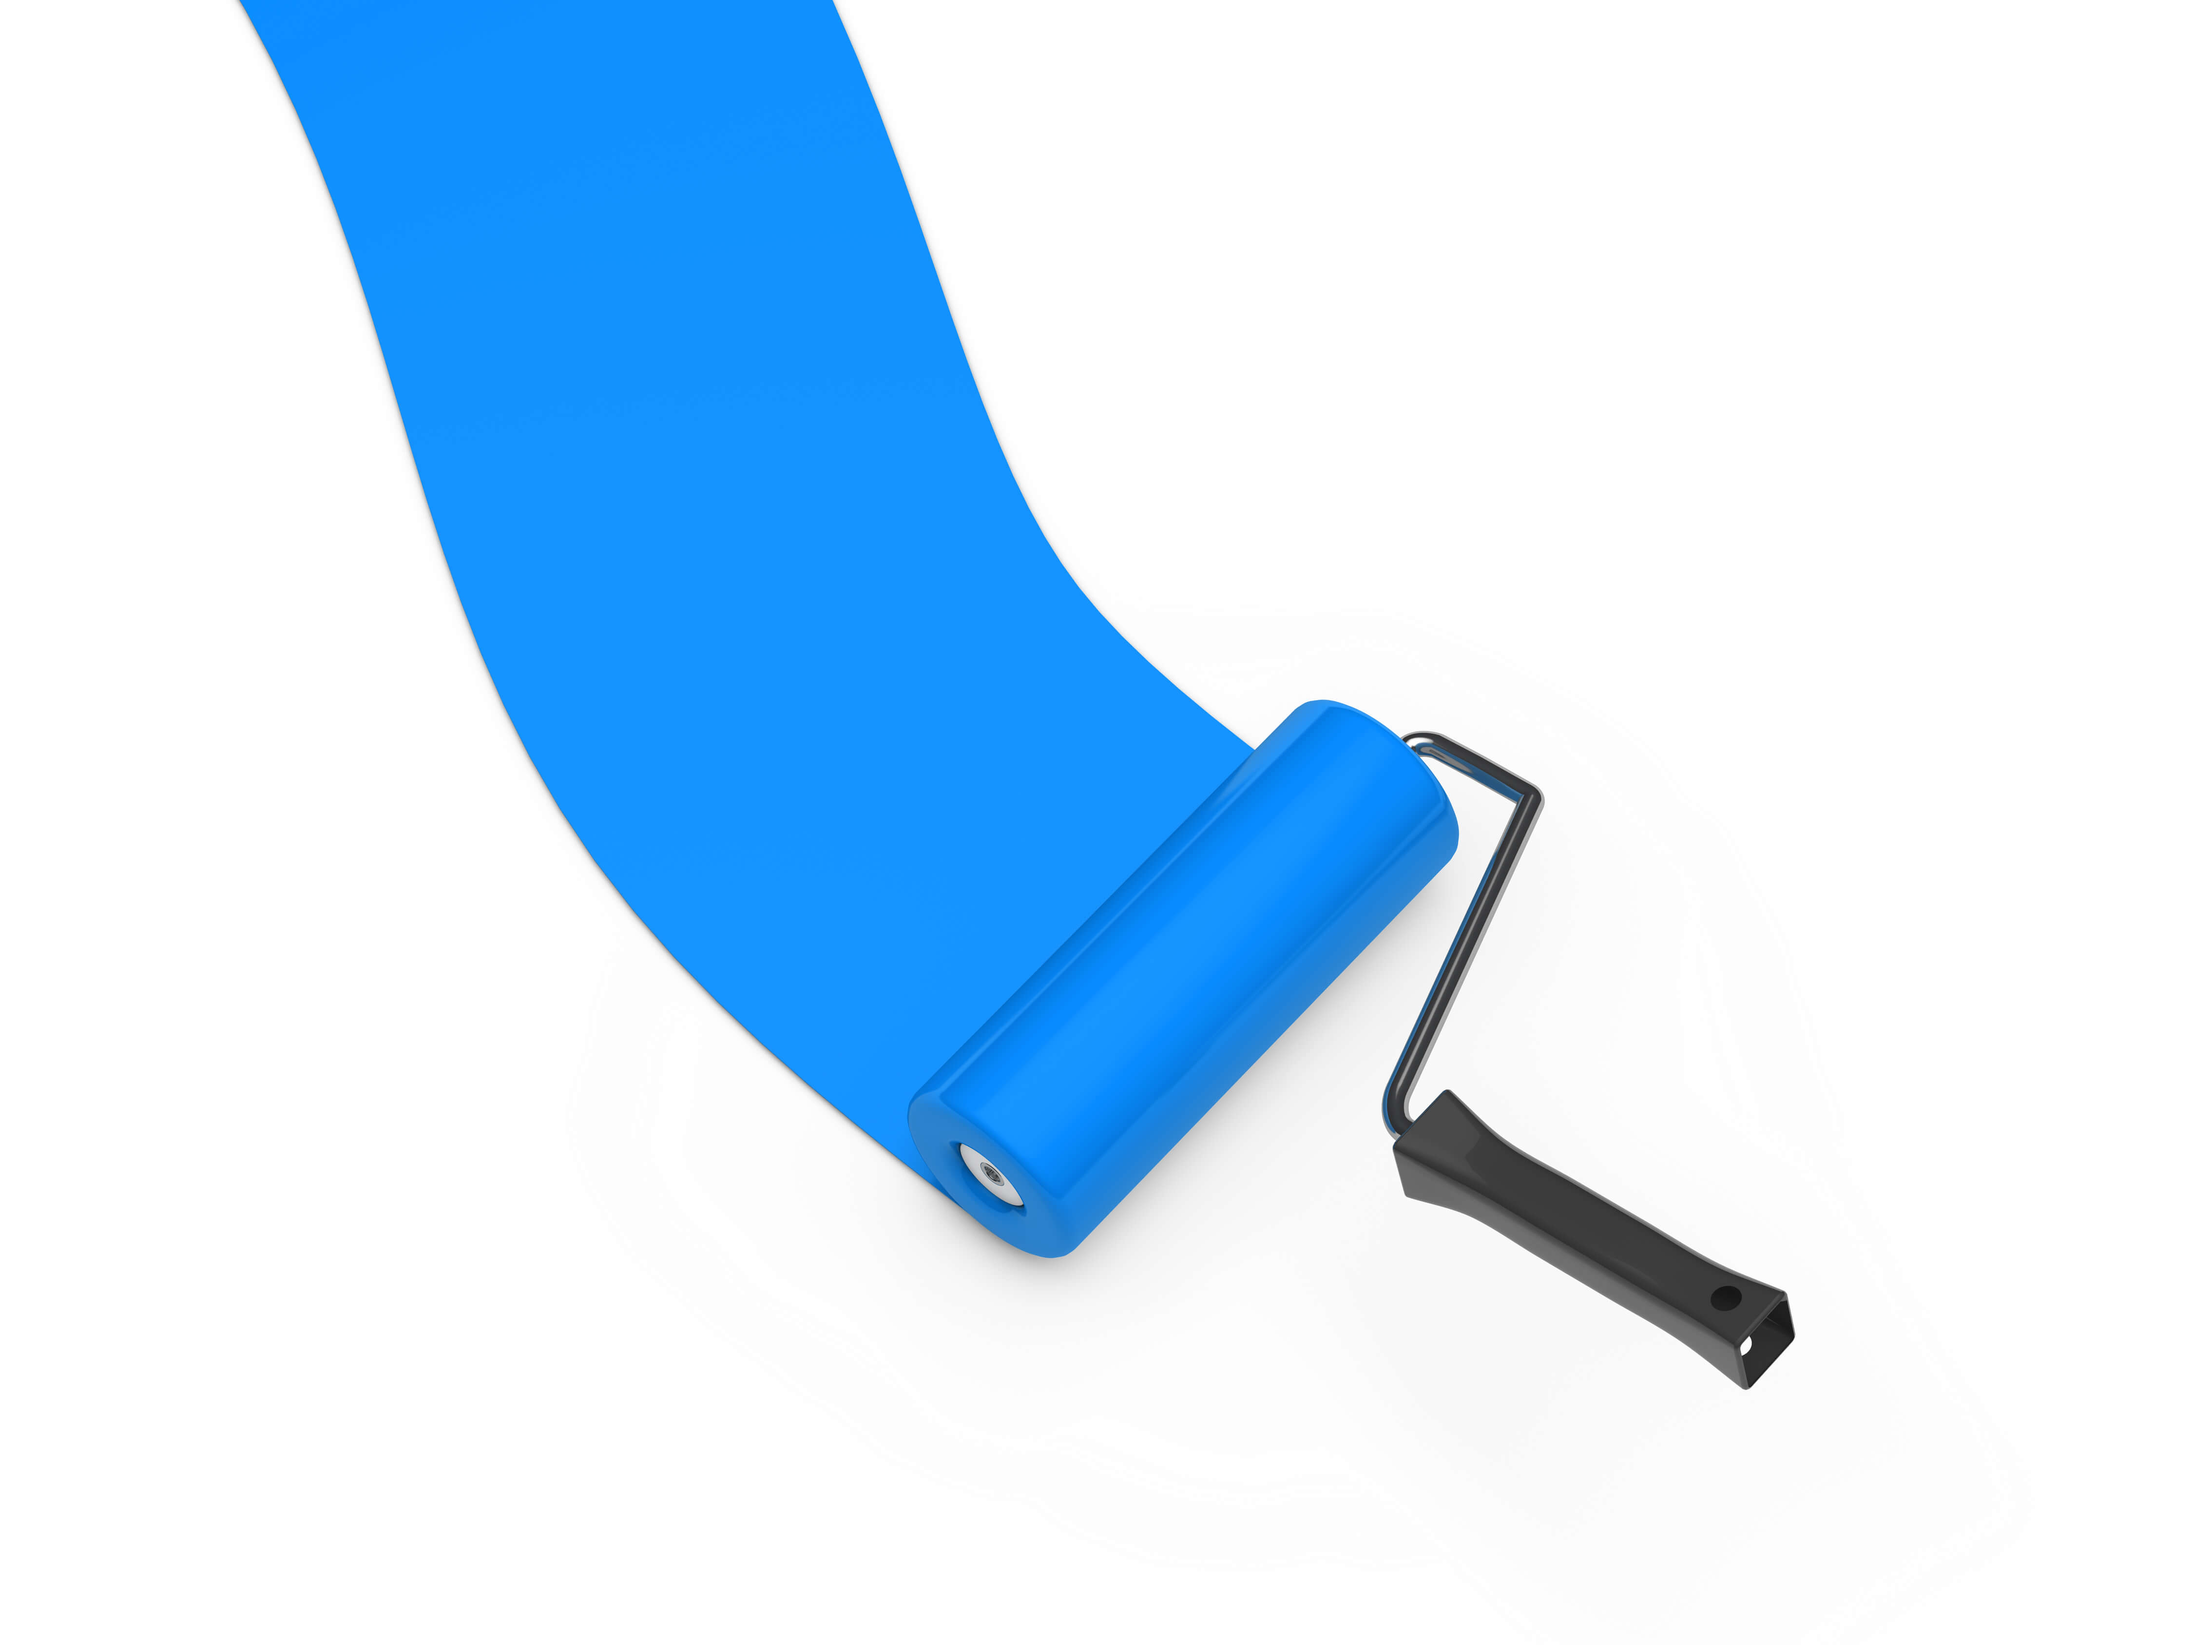
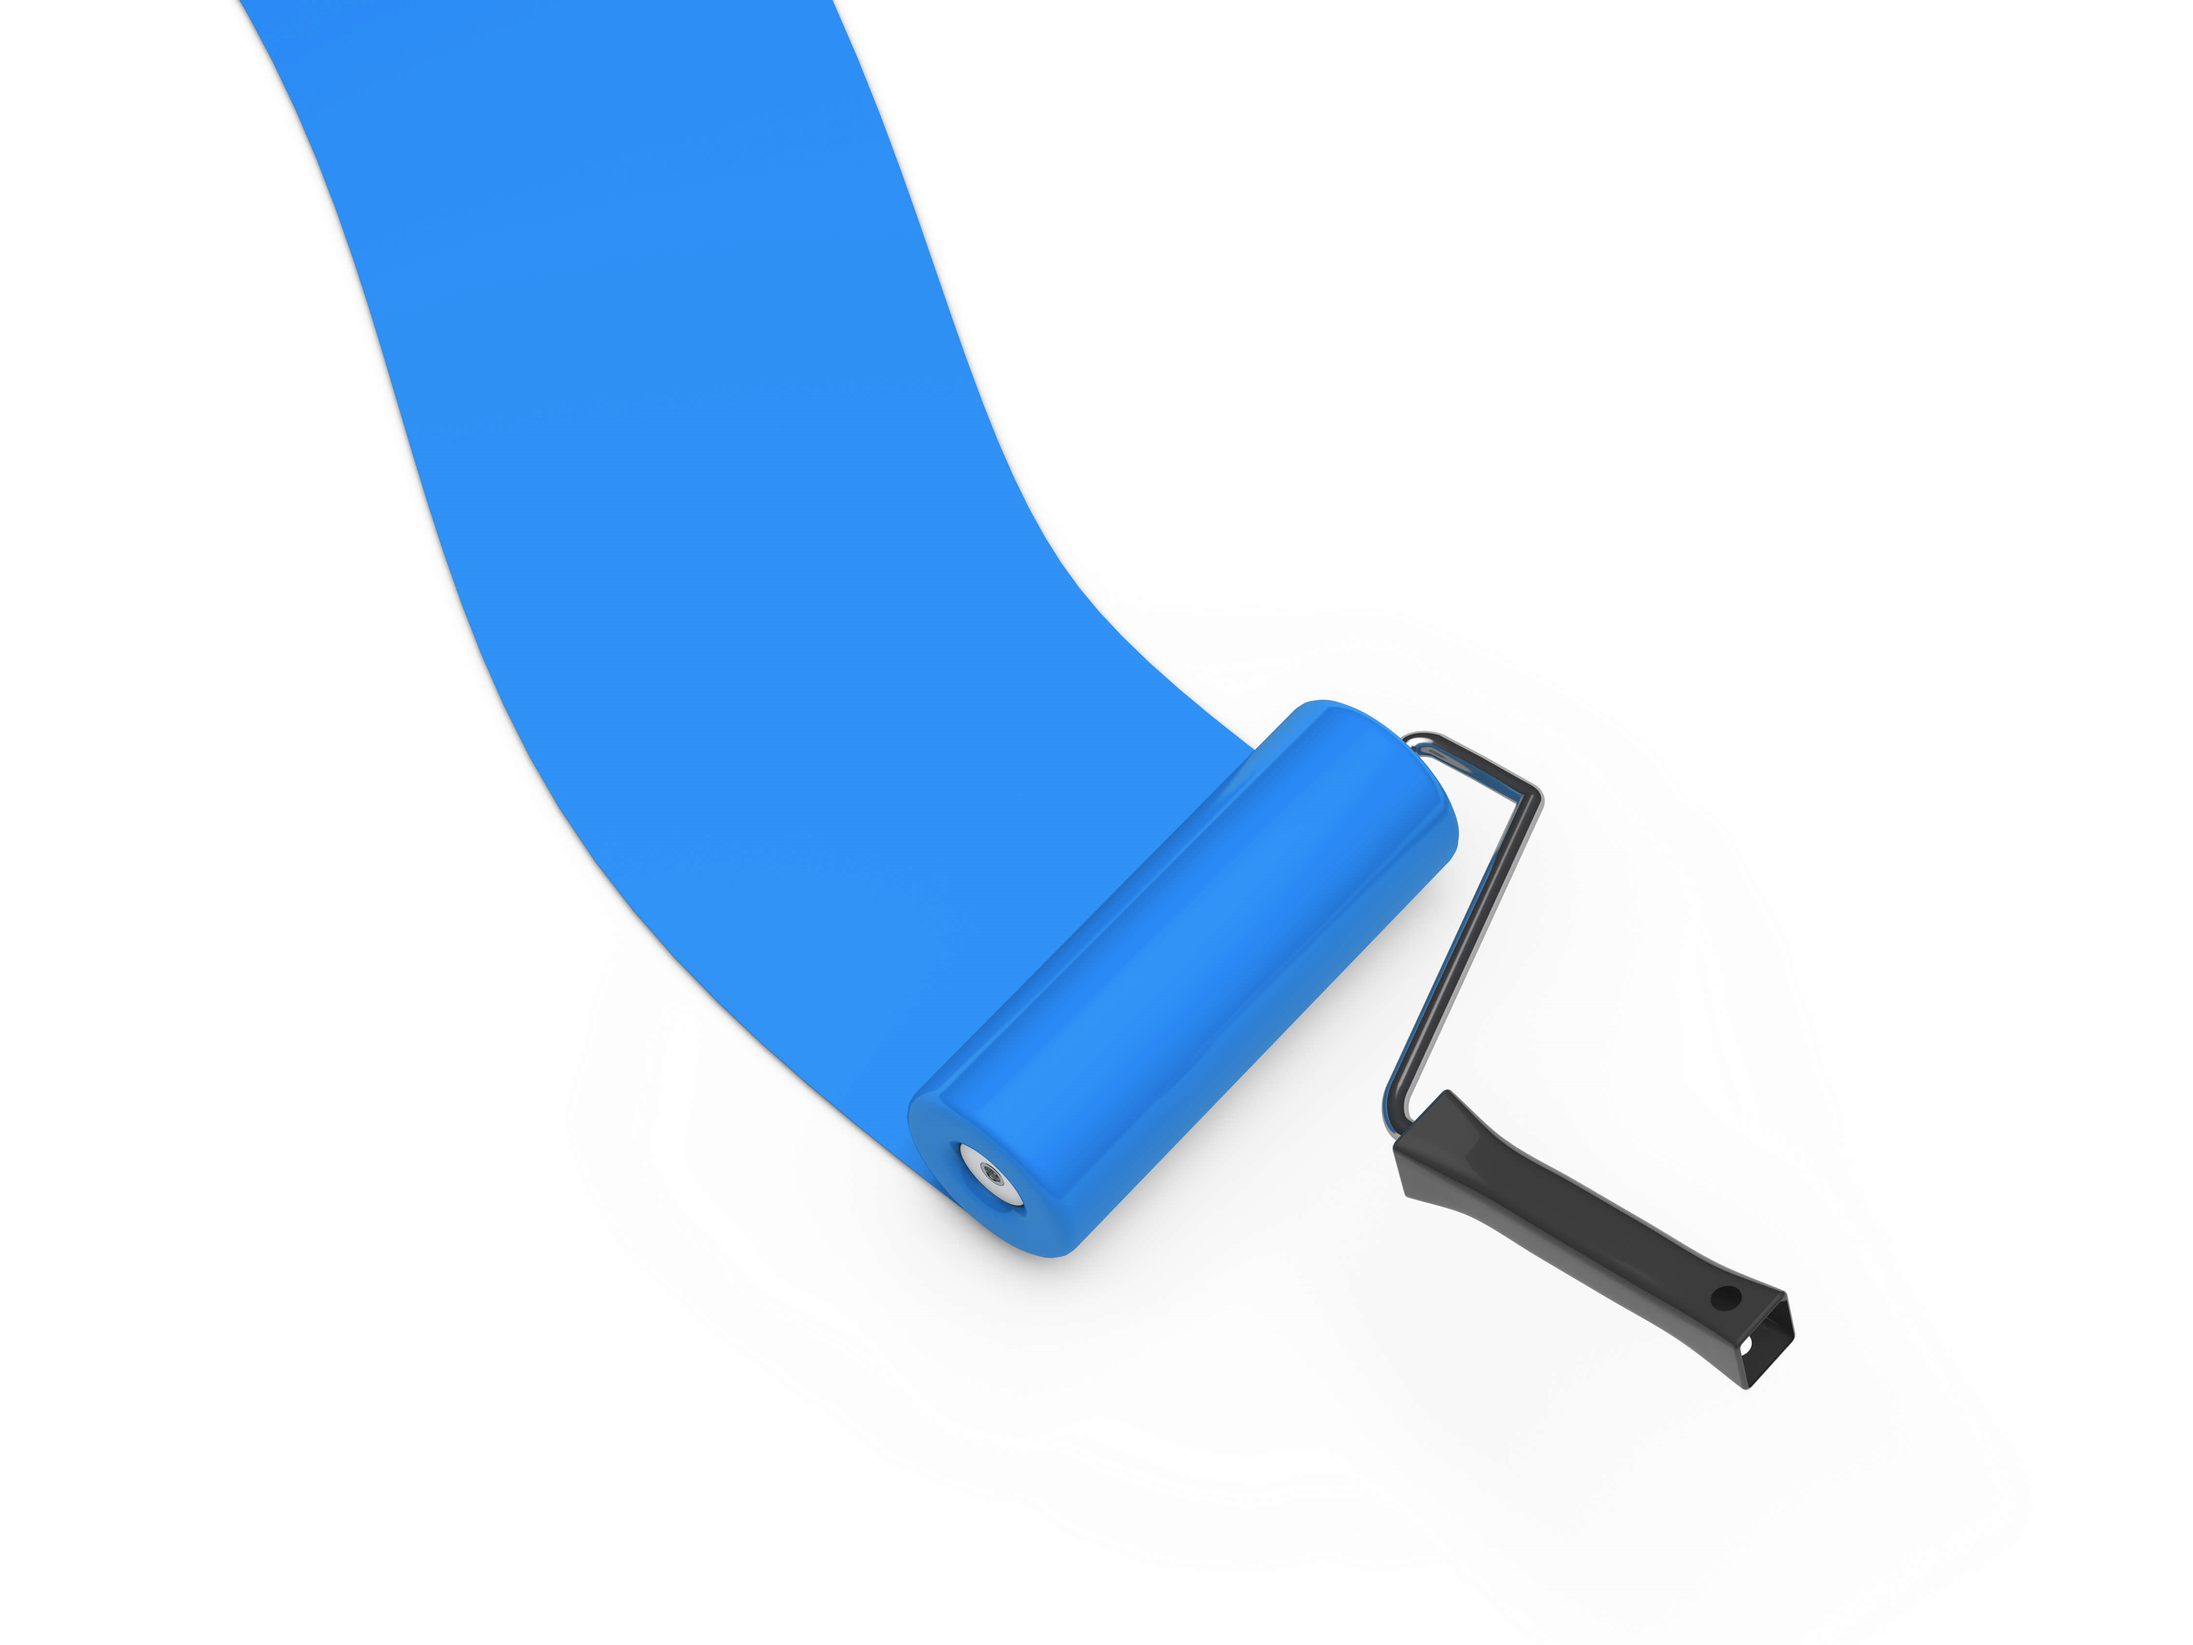
small change

Changed region(s): [[0.0933, 0.0, 0.6533, 0.7467]]

diff --git a/index.html b/index.html
@@ -80,7 +80,7 @@
 					<a href="#">
 						<!-- <img src="assets/paint-roller-fixed.svg" loading="eager" -->
 						<!-- 	alt="Xrwma.com Λογότυπο"> -->
-						<img src="assets/paint-roller-fixed-winter.png" loading="eager"
+						<img src="assets/paint-roller-fixed.svg" loading="eager"
 							alt="Xrwma.com Λογότυπο">
 
 					</a>
